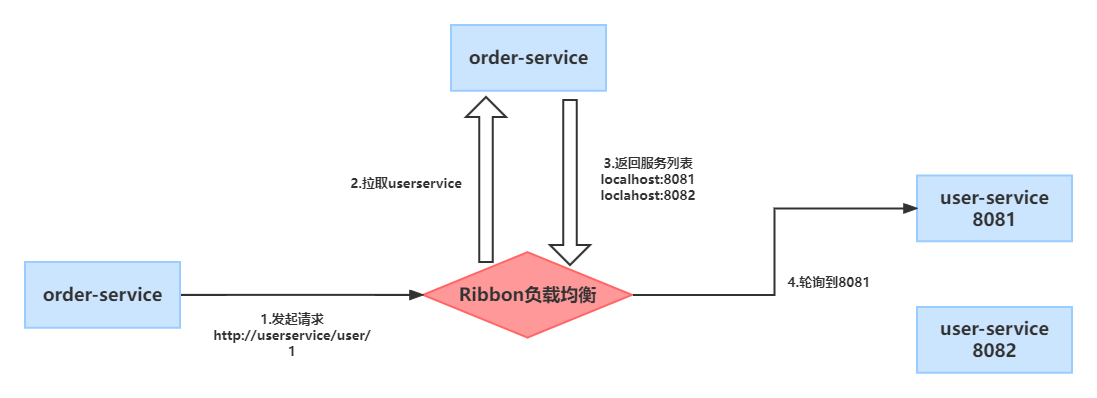
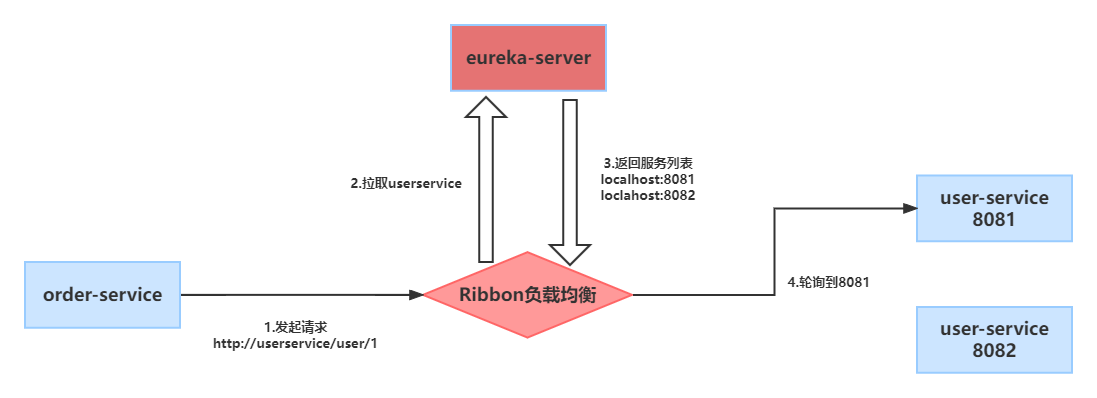
666

Changed region(s): [[0.4029, 0.0603, 0.5579, 0.2412], [0.186, 0.7839, 0.3409, 0.8744]]

diff --git a/md/springcloud/Eureka2.md b/md/springcloud/Eureka2.md
@@ -19,14 +19,14 @@ public class EurekaApplication {
 ###### 3.yml配置
 ```
 server:
-  port: 8081   # 服务端口
+  port: 8088   # 服务端口
 spring:
   application:
     name: eurekaserver   # 服务名称
 eureka:
   client:
     service-url:   #eureka的地址信息(将自己也注册到注册中心，集群之间通信使用)
-      defaultZone: http://127.0.0.1:8081/eureka
+      defaultZone: http://127.0.0.1:8088/eureka
 ```
  
 #### 二. 服务注册与发现
@@ -40,14 +40,14 @@ eureka:
 ###### 2. yml配置
 ```
 server:
-  port: 8021
+  port: 8081
 spring:
   application:
-    name: serviceXXX
+    name: orderservice     --服务名
 eureka:
   client:
     service-url:  
-      defaultZone: http://127.0.0.1:8081/eureka
+      defaultZone: http://127.0.0.1:8088/eureka
 ```
 通过步骤1、2将服务注册到注册中心
 ###### 3. 服务发现
@@ -60,9 +60,8 @@ eureka:
  }
  
  // 利用RestTemplate发起http请求，实现远程服务调用
- // 这里用服务提供者的服务名称 serviceXXX 远程调用
-  String url = "http://serviceXXX/test";
-  restTemplate.getForObject(url, String.class);
+  String url = "http://userservice/user/1";
+  restTemplate.getForObject(url, User.class);
 ```
 
  

diff --git a/md/index/springcloud.md b/md/index/springcloud.md
@@ -1,11 +1,19 @@
 1. ###### [常用微服务组件][001]
+
 2. ###### **Eureka注册中心**
 -  [Eureka注册中心原理][002]
 -  [Eureka注册与发现][003]
 
+3. ###### **Ribbon负载均衡**
+-  [Ribbon负载均衡原理][004]
+-  [Ribbon负载均衡策略][005]
+-  [Ribbon懒加载][006]
 
 
 [001]: https://fgq233.github.io/md/springcloud/all
-[002]: https://fgq233.github.io/md/springcloud/Eureka01
-[003]: https://fgq233.github.io/md/springcloud/Eureka02
+[002]: https://fgq233.github.io/md/springcloud/Eureka1
+[003]: https://fgq233.github.io/md/springcloud/Eureka2
+[004]: https://fgq233.github.io/md/springcloud/Ribbon1
+[005]: https://fgq233.github.io/md/springcloud/Ribbon2
+[006]: https://fgq233.github.io/md/springcloud/Ribbon3
  

diff --git a/md/springcloud/Ribbon1.md b/md/springcloud/Ribbon1.md
@@ -1,0 +1,10 @@
+### 一、Ribbon + Eureka负载均衡流程
+
+![负载均衡流程](https://fgq233.github.io/imgs/springcloud/ribbon1.png)
+
+
+
+
+### 二、Ribbon 负载均衡原理
+
+![负载均衡原理](https://fgq233.github.io/imgs/springcloud/ribbon2.png)
